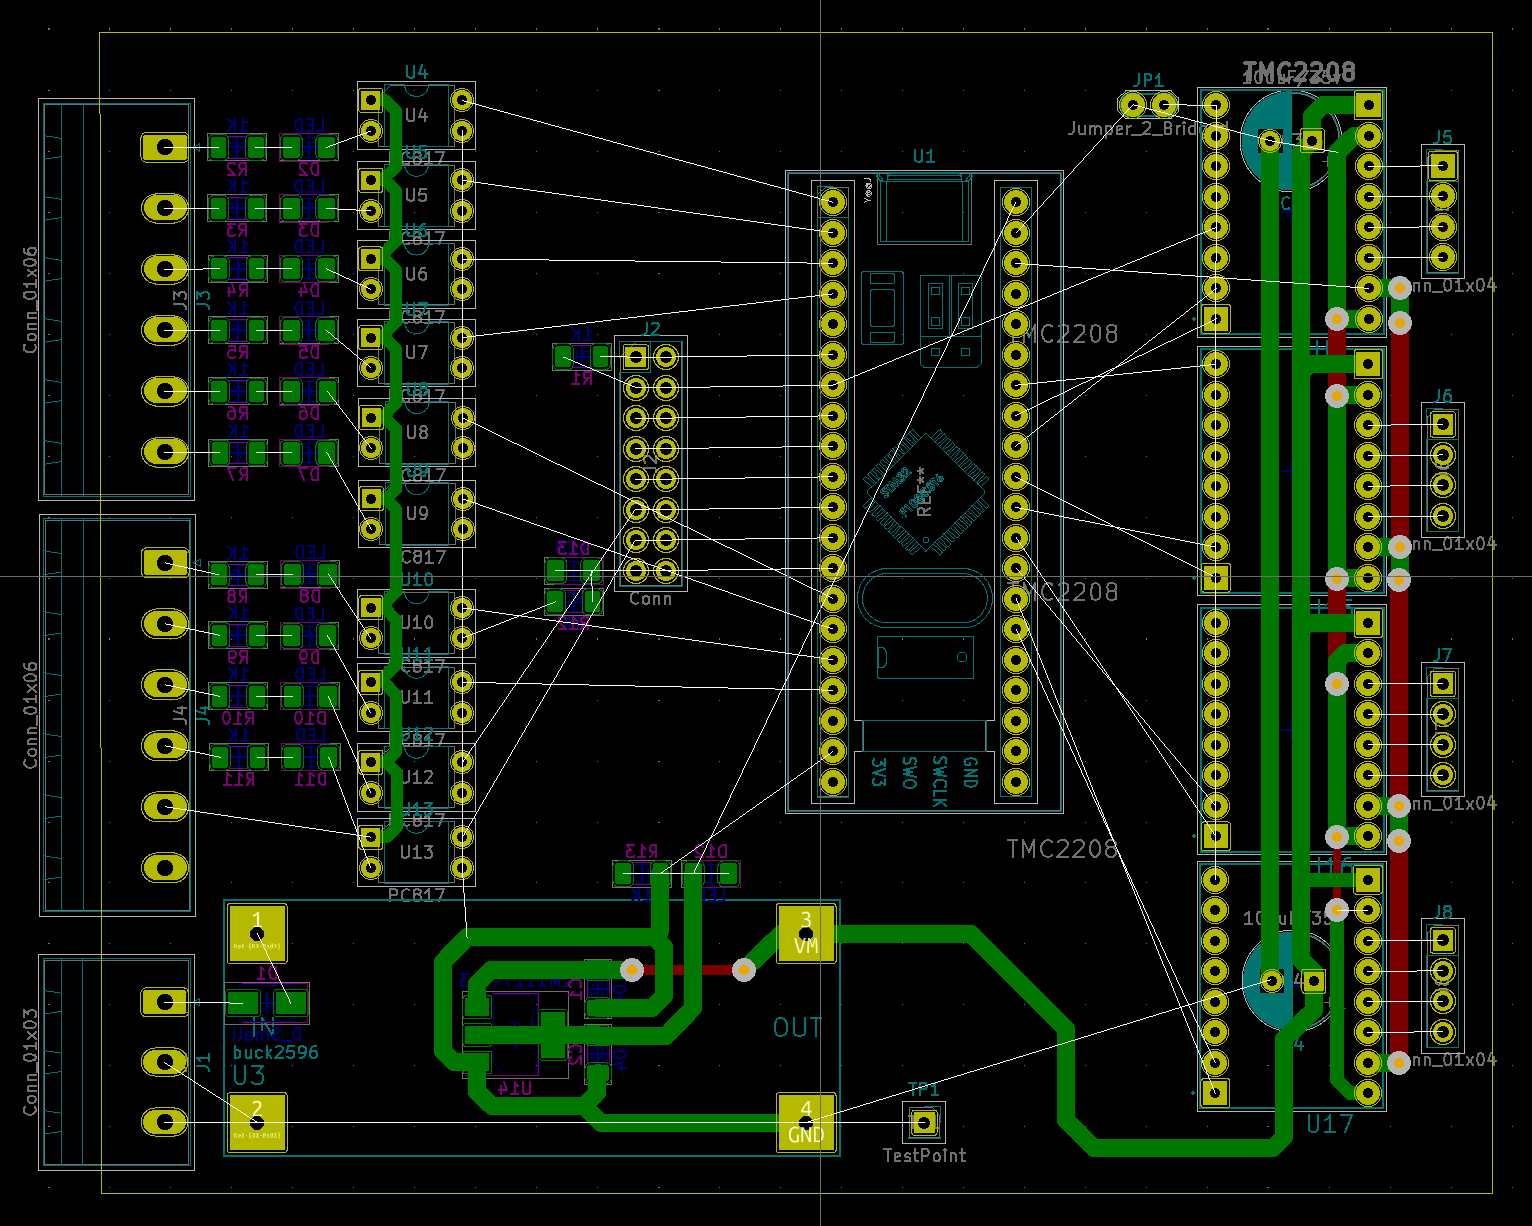
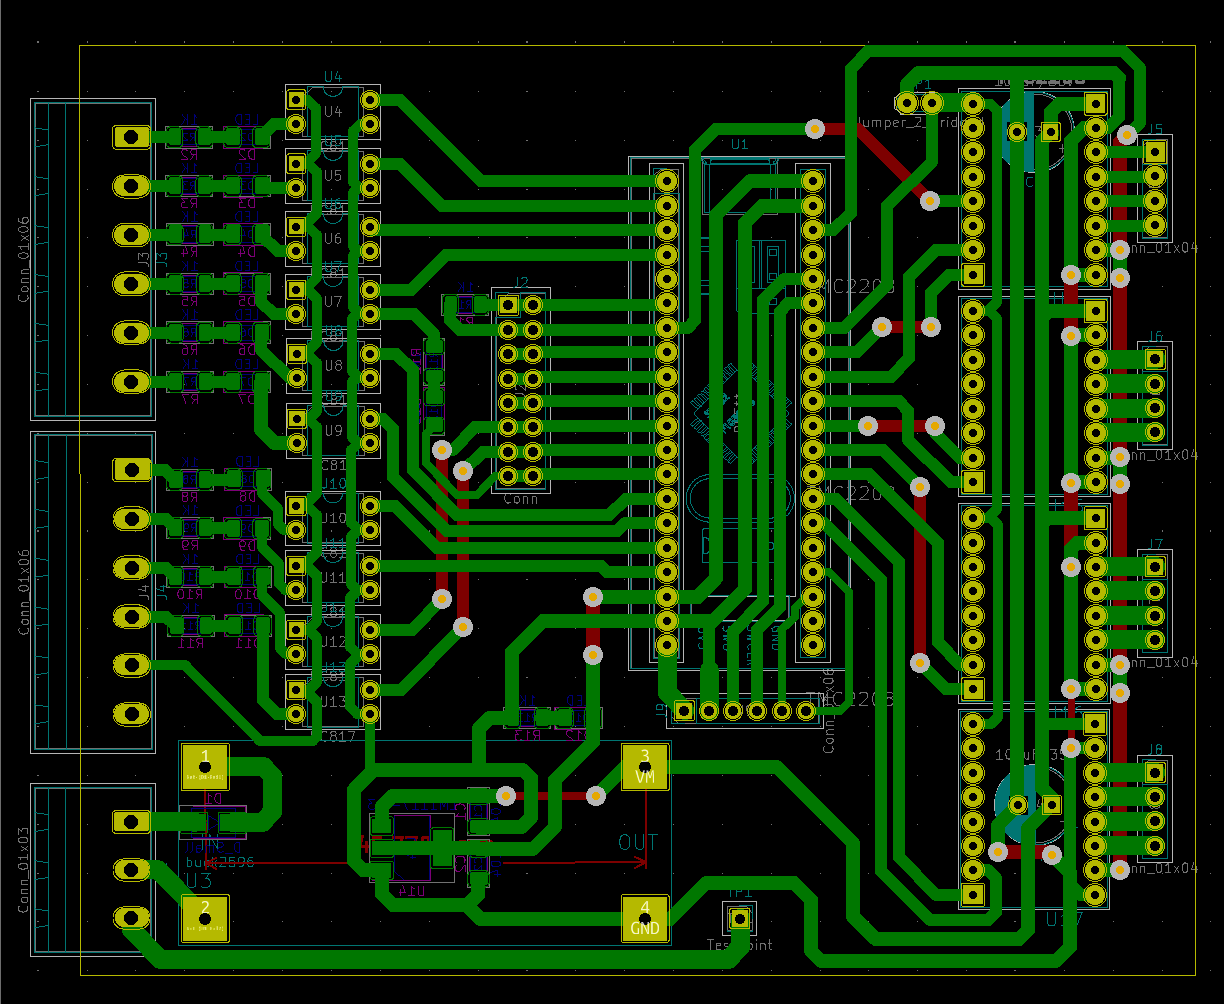
Schematic Full Layout Nets Opto Connector 4-TMC Stage 3

diff --git a/README.md b/README.md
@@ -1,7 +1,12 @@
 # grblHAL
-STM32F401 GRBL Controller
+STM32F401 GRBL Controller over BlackPill board.
 
-Only Schematic and layout nets are connected. Screw Terminal Connectors and optos are aligned. Added 1 TMC2208.
+Schematic and layout are completed. Screw Terminal Connectors and optos are aligned. Added 4 TMC2208.<br>
 
-<img alt="Image Not Found." src="png01.png"><br>
-<img alt="Image Not Found." src="png02.png"><br>
+Inspired from <a href="https://github.com/avizienis/Minimal-Black-Pill--STM32F4xx-BOB-for-grblHAL">Minimal-Black-Pill--STM32F4xx-BOB-for-grblHAL</a><br>
+<img alt="Image Not Found" src="grblblackpill.jpg"><br>
+
+### Our Kicad design below.<br/>
+
+<img alt="Image Not Found." width=50% src="png01.png"><br>
+<img alt="Image Not Found." width=50% src="png02.png"><br>
